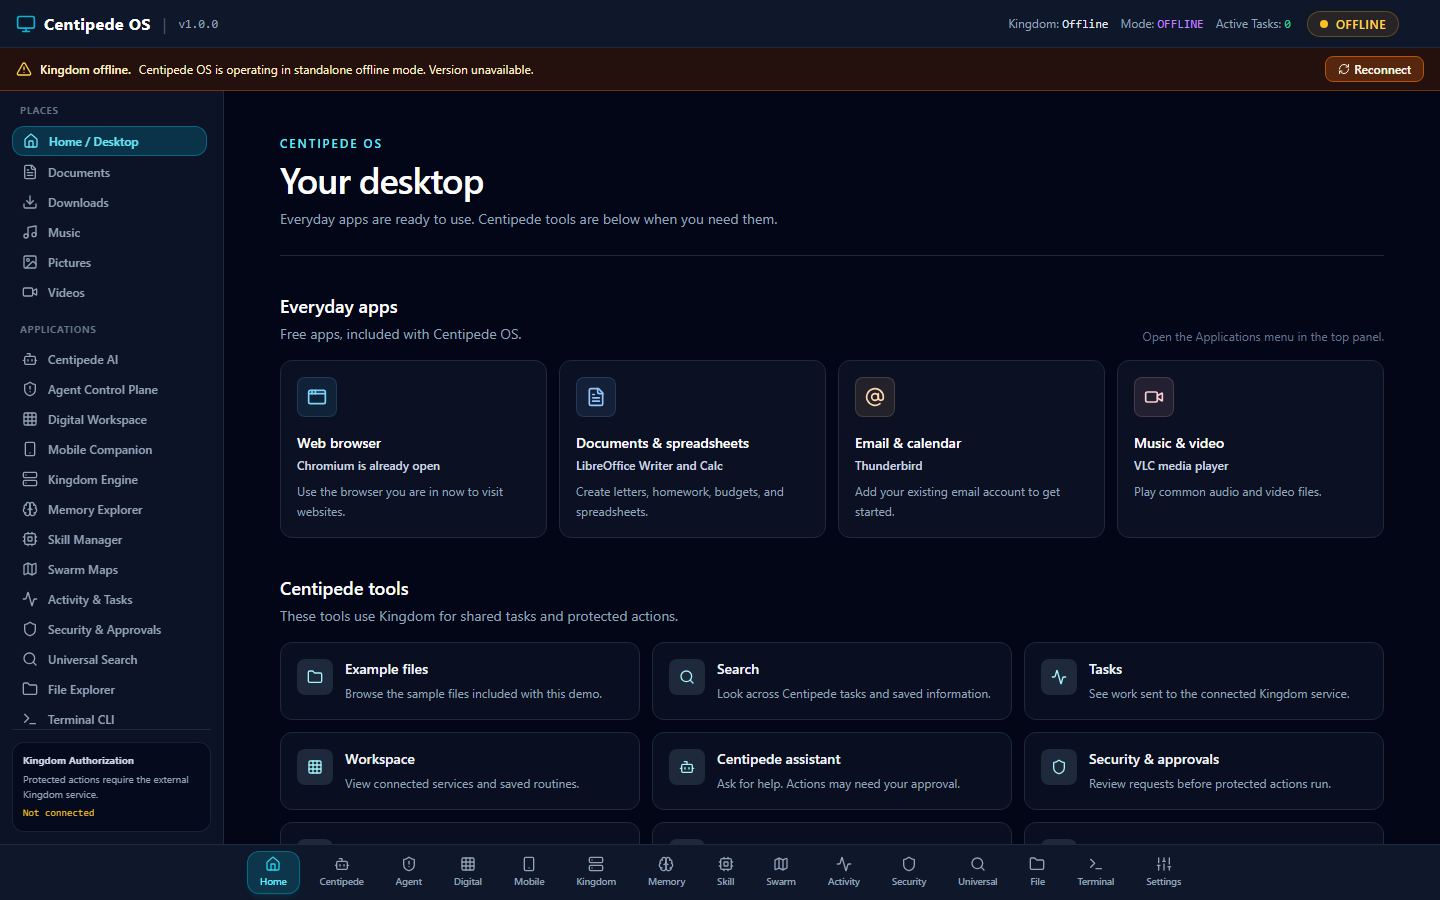
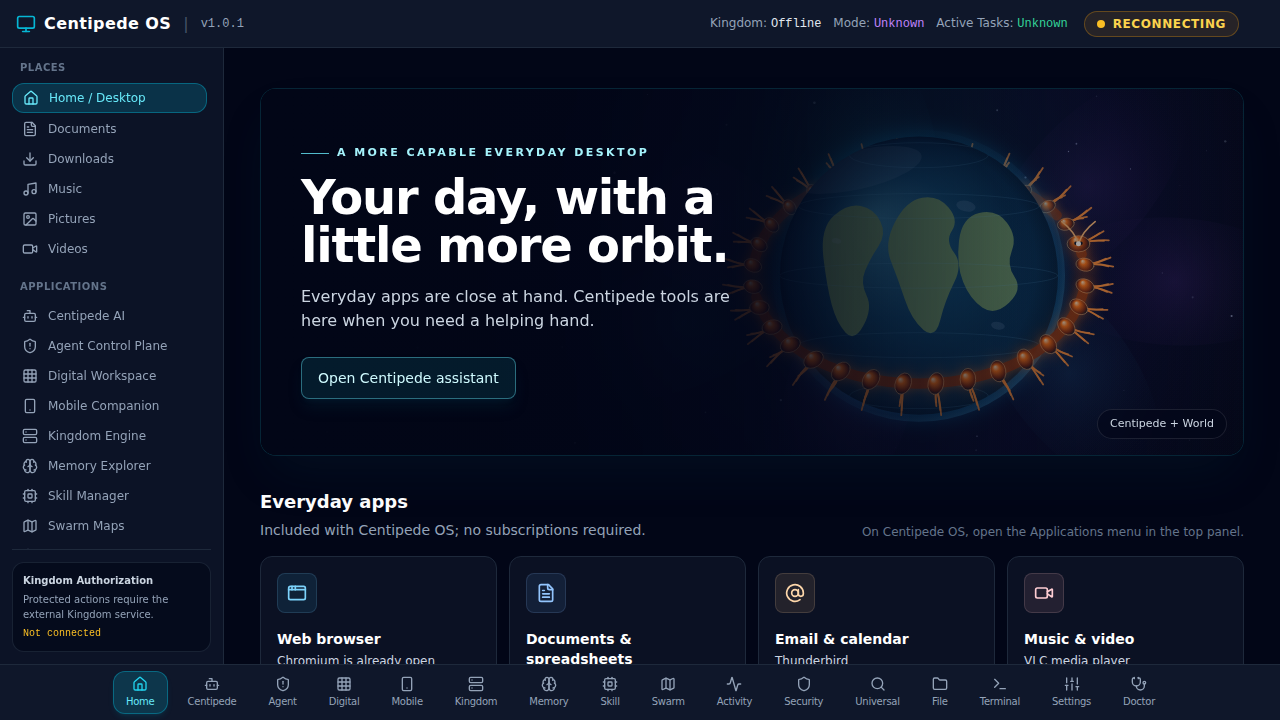
Document Centipede branded release preview

diff --git a/README.md b/README.md
@@ -6,9 +6,9 @@ Centipede OS is a free desktop operating system with a custom Centipede-branded 
 
 **New to this?** Download the ISO, write it to an empty USB drive, and start the other computer from that USB. The live session does not install Centipede or replace Windows.
 
-<p><a href="https://github.com/wests-cmd/Centipede-os/releases/download/v1.0.0/centipede-os-1.0.0-x86_64.iso"><strong>⬇ Download Centipede OS v1.0.0 for USB</strong></a></p>
+<p><a href="https://github.com/wests-cmd/Centipede-os/releases/download/v1.0.1-rc.3/centipede-os-1.0.1-live-usb-x86_64.iso"><strong>⬇ Try the Centipede OS 1.0.1 preview for USB</strong></a></p>
 
-Need a different format or want to see every available file? Visit the [Centipede OS v1.0.0 downloads page](https://github.com/wests-cmd/Centipede-os/releases/tag/v1.0.0).
+This is a **preview release**. For the current stable download, use [Centipede OS v1.0.0](https://github.com/wests-cmd/Centipede-os/releases/tag/v1.0.0). To see every preview file, including the VM and Docker image, visit the [Centipede OS v1.0.1-rc.3 downloads page](https://github.com/wests-cmd/Centipede-os/releases/tag/v1.0.1-rc.3).
 
 **Before you start:** The USB needs at least 8 GB free. Writing the image erases the USB. Files saved during a live session may be lost when you shut down. Keep the PC’s internal drive connected and do not choose an install or erase option.
 
@@ -33,17 +33,17 @@ Use an empty USB drive with at least 8 GB free (16 GB is a comfortable choice). 
 
 If the PC does not show a boot menu, restart and try the other common key or look up “boot menu” plus the PC maker and model. Do not change Secure Boot or firmware settings as a first troubleshooting step.
 
-> **What you download:** v1.0.0 is the current published stable image. A custom Centipede boot menu, startup splash, login screen, desktop background, and installer look are being prepared for the v1.0.1 update; that update is not published yet.
+> **What you download:** v1.0.1-rc.3 is a custom Centipede-branded live preview. The default live option was tested in virtual machines, but the installer has not passed installation to a separate test disk, reboot, and source-media safety checks. Choose **Try Centipede / Live** only. Do not start the disk installer or use it on a real disk. The current stable release remains v1.0.0.
 
-> **Disk installer status:** The published v1.0.0 image is a live system and cannot install Centipede to an internal disk. A disk-installer candidate is being reviewed in [PR #119](https://github.com/wests-cmd/Centipede-os/pull/119), but installation to a separate test disk and reboot have not yet been verified. Do not use candidate images to install or erase a disk. This README will link a new release only after those checks pass.
+> **Disk installer status:** The preview contains a guided installer, but it is not certified for disk installation yet. Installation to a separate test disk, reboot, and proof that the boot USB cannot be selected as the target are still required. Do not use it to install or erase a disk.
 
-### Preview of the upcoming desktop
+### Centipede OS 1.0.1 preview desktop
 
-![Centipede desktop preview. This refreshed design is not in the v1.0.0 download.](docs/images/centipede-desktop-preview.png)
+![Centipede OS 1.0.1 preview desktop, captured during the full-use browser check.](docs/images/centipede-desktop-preview.png)
 
 ## What is included
 
-The project contains a browser-based desktop application, a Centipede live image, a Docker image, and Android/iOS app projects. The live desktop runs Centipede in Chromium. The desktop design separates common apps from Centipede tools. The upcoming branded image includes Chromium, LibreOffice Writer/Calc, Thunderbird, and VLC; these changes need a new tagged release before they become the public stable USB download.
+The project contains a browser-based desktop application, a Centipede live image, a Docker image, and Android/iOS app projects. The live desktop runs Centipede in Chromium. The desktop design separates common apps from Centipede tools. The preview image includes Chromium, LibreOffice Writer/Calc, Thunderbird, and VLC. These assets are published as a prerelease preview and have not replaced the v1.0.0 stable download.
 
 The interface is a client for Kingdom, a separately operated service. Centipede does not include Kingdom or gain control of the host PC. Some panels are prototypes or use local example data. The browser companion can enroll a phone against the running Centipede service: open Centipede on the host computer at `http://localhost:3000`, create a one-time code, then open the printed phone address on the same network and enter the code there. The API requires a loopback socket peer and a localhost request host for code creation and device administration; browser origin and Fetch Metadata checks further reject cross-origin requests. Request headers alone cannot grant local authority. Pairing uses plain HTTP, so keep it on a private, trusted network and never expose the port to the internet. Pairing records last only for the current server session. Docker or reverse-proxy setups are not certified for host device administration when their API sees a bridge/proxy peer instead of loopback. This is device enrollment only; the native Android/iOS apps and mobile task/approval workflows are not ready. The live image has limited hardware firmware and may not support every Wi-Fi or graphics device.
 
@@ -58,9 +58,9 @@ The live-image build keeps normal graphics enabled and provides a separate **Cen
 The operating system uses Centipede OS identity across the boot menu, startup splash, login screen, desktop, and installer. Required notices for included upstream components remain available in the system's legal documentation. See [branding details](docs/BRANDING.md) and the [boot and recovery checklist](docs/BOOT_RECOVERY_CHECKLIST.md) for what's included, what's unverified, and what blocks a production claim.
 ## Current release and target status
 
-- The current public release is [Centipede OS v1.0.0](https://github.com/wests-cmd/Centipede-os/releases/tag/v1.0.0).
-- ISO, USB, QEMU VM, desktop bundle, and Docker assets are published for v1.0.0.
-- v1.0.0 is live-only. The guided disk installer is a v1.0.1 candidate and is not a published download; the separate-target install and reboot checks are still required.
+- The current stable release is [Centipede OS v1.0.0](https://github.com/wests-cmd/Centipede-os/releases/tag/v1.0.0).
+- The custom-branded [v1.0.1-rc.3 preview](https://github.com/wests-cmd/Centipede-os/releases/tag/v1.0.1-rc.3) publishes a web bundle, hybrid live ISO, byte-identical Live USB image, QEMU optical-media image, and smoke-tested Docker image. See its release manifest and SHA-256 file for exact artifact identities and checksums.
+- Both the stable image and preview should be treated as live-only. The preview's guided installer has not passed separate-target installation, reboot, and source-media safety checks; do not use it on a real disk.
 - Android device distribution is blocked until the protected signing key and publisher fingerprint are configured.
 - iPhone distribution is blocked until Apple distribution signing and provisioning are configured. The iOS Simulator app is not installable on an iPhone.
 - Docker contains the Centipede web app, not Kingdom. Running it requires Docker and does not provide the USB desktop experience.

diff --git a/docs/CURRENT_REALITY.md b/docs/CURRENT_REALITY.md
@@ -2,6 +2,14 @@
 
 > Current release gates are maintained in [SHIP_REALITY_MATRIX.md](SHIP_REALITY_MATRIX.md); the full supplied checklist and its implementation status are tracked in [MASTER_RELEASE_EXECUTION_CHECKLIST.md](MASTER_RELEASE_EXECUTION_CHECKLIST.md) and [MASTER_RELEASE_EXECUTION_STATUS.md](MASTER_RELEASE_EXECUTION_STATUS.md). Historical readiness documents may contain outdated completion claims and do not override those records or current code.
 
+## Current release update — 2026-10-06
+
+The current stable release is still [`v1.0.0`](https://github.com/wests-cmd/Centipede-os/releases/tag/v1.0.0). A custom-branded [`v1.0.1-rc.3 preview`](https://github.com/wests-cmd/Centipede-os/releases/tag/v1.0.1-rc.3) is now published. Its release run built the web bundle, Docker image, hybrid ISO/Live USB image, and QEMU optical-media image; release manifest and SHA-256 checksums are attached. CI booted the exact ISO to the desktop in standard BIOS, Safe Graphics BIOS, signed UEFI, and signed UEFI Safe Graphics modes. Docker smoke checks passed.
+
+The preview is for **live use only**. The guided installer has not passed installation to a separate disposable disk, reboot, and source-media safety verification. Android signed APK and iOS device IPA were not published because signing credentials are not configured. The release manifest marks those targets `BLOCKED`. No stable v1.0.1 release is authorized by this evidence.
+
+The target descriptions in the historical sections below record earlier audits and CI runs; for current downloadable artifacts and gate status, use this update and the linked live [ship reality matrix](SHIP_REALITY_MATRIX.md).
+
 **Core version:** `package.json` (`1.0.0`)
 **Public stable release:** [`v1.0.0`](https://github.com/wests-cmd/Centipede-os/releases/tag/v1.0.0)
 **Desktop refresh merge:** `f17a9365f223572dc0ea411dfbfdf214eee3ed5a`

diff --git a/docs/BRANDING.md b/docs/BRANDING.md
@@ -18,4 +18,4 @@ node scripts/render-brand-assets.mjs
 
 The live-image build fails if required artwork or Centipede identity configuration is missing. The boot-menu hook also fails if a generated visible boot label still identifies the base distribution. Linux components and package metadata retain machine-readable compatibility fields and required upstream legal notices; those fields are not product branding.
 
-The branding update is part of the v1.0.1 candidate. It is not the current public download until the image is rebuilt, the boot matrix passes, and the disk-installer release gate is satisfied.
+The branded image is published as the [`v1.0.1-rc.3 preview`](https://github.com/wests-cmd/Centipede-os/releases/tag/v1.0.1-rc.3). The BIOS and signed-UEFI normal/Safe Graphics boot matrix passed in CI. It remains a live preview; the disk installer release gate is still blocked on a separate-target installation, reboot, and source-media safety validation. The stable download remains v1.0.0.
